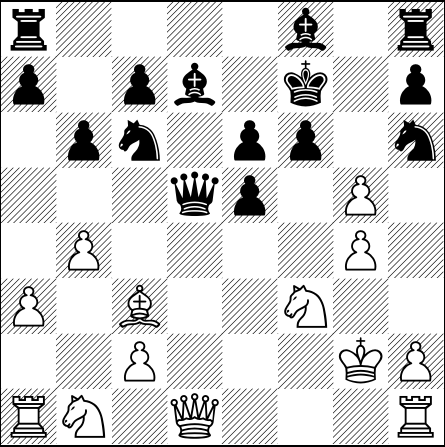
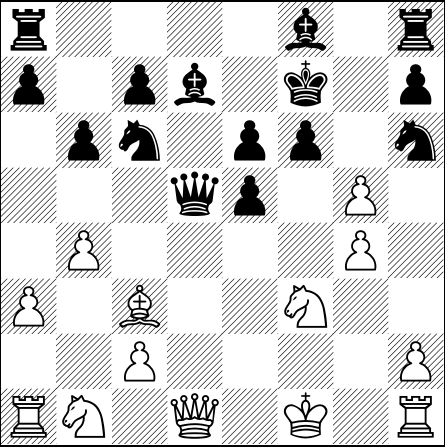
[automated] Regenerate text/pdf for chessboard

Changed region(s): [[0.7596, 0.7562, 0.8764, 0.8725], [0.6135, 0.8725, 0.7596, 0.9888]]

diff --git a/default_filepath.tex b/default_filepath.tex
@@ -13,6 +13,6 @@
 \normalsize%
 \setchessboard{showmover=false}%
 \newgame%
-\fenboard{r4b1r/p1pb1k1p/1pn1pp1n/3qp1P1/1P4P1/P1B2N2/2P3KP/RN1Q3R w - - 1 22}%
+\fenboard{r4b1r/p1pb1k1p/1pn1pp1n/3qp1P1/1P4P1/P1B2N2/2P4P/RN1Q1K1R b - - 2 22}%
 \chessboard%
 \end{document}
